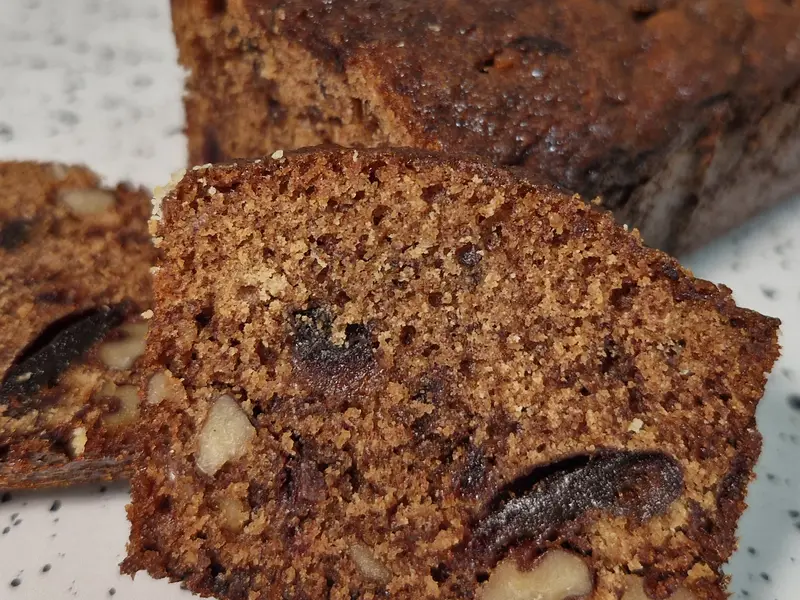
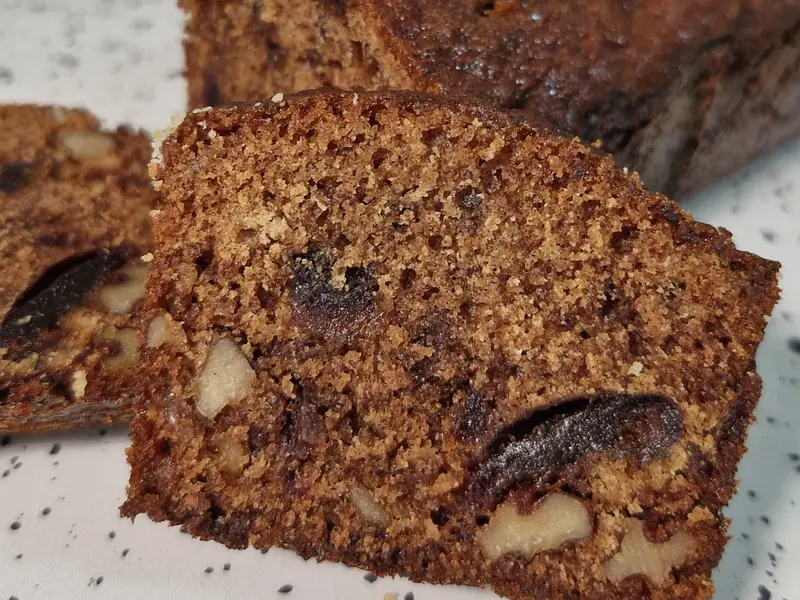
Better cookie crops

diff --git a/index.html b/index.html
@@ -478,7 +478,7 @@ footer small{opacity:.75}
 <script>
 (function(){
 "use strict";
-var IMG = {"bauble": "img/bauble.webp", "choctarts": "img/choctarts.webp", "coconutice": "img/coconutice.webp", "coconuttarts": "img/coconuttarts.webp", "cookies_mix": "img/cookies_mix.webp", "cookies_reindeer": "img/cookies_reindeer.webp", "cookies_tree": "img/cookies_tree.webp", "guava": "img/guava.webp", "kulkuls": "img/kulkuls.webp", "logo_color": "img/logo_color.webp", "logo_color_whitetext": "img/logo_color_whitetext.webp", "marzipan": "img/marzipan.webp", "milkcream": "img/milkcream.webp", "nevries_rose": "img/nevries_rose.webp", "reindeer": "img/reindeer.webp", "rumsquare": "img/rumsquare.webp", "sweets_mix": "img/sweets_mix.webp", "bow": "img/bow.webp", "s_neureos": "img/s_neureos.webp", "s_guava": "img/s_guava.webp", "p_marzipan": "img/p_marzipan.webp", "p_kulkul": "img/p_kulkul.webp", "s_shank": "img/s_shank.webp", "p_cice": "img/p_cice.webp", "p_nankhatai": "img/p_nankhatai.webp", "s_rose": "img/s_rose.webp", "p_milkcream": "img/p_milkcream.webp", "p_guava": "img/p_guava.webp", "p_bombs": "img/p_bombs.webp", "p_neureos": "img/p_neureos.webp", "s_kulkul": "img/s_kulkul.webp", "s_bombs": "img/s_bombs.webp", "s_marzipan": "img/s_marzipan.webp", "p_datewal": "img/p_datewal.webp", "s_datewal": "img/s_datewal.webp", "s_baath": "img/s_baath.webp", "p_baath": "img/p_baath.webp", "p_shank": "img/p_shank.webp", "chef_smile": "img/chef_smile.webp", "s_cice": "img/s_cice.webp", "p_rose": "img/p_rose.webp", "chef_table": "img/chef_table.webp", "chef_face": "img/chef_face.webp", "s_milkcream": "img/s_milkcream.webp", "s_nankhatai": "img/s_nankhatai.webp"};
+var IMG = {"bauble": "img/bauble.webp", "choctarts": "img/choctarts.webp", "coconutice": "img/coconutice.webp", "coconuttarts": "img/coconuttarts.webp", "cookies_mix": "img/cookies_mix.webp", "cookies_reindeer": "img/cookies_reindeer.webp", "cookies_tree": "img/cookies_tree.webp", "guava": "img/guava.webp", "kulkuls": "img/kulkuls.webp", "logo_color": "img/logo_color.webp", "logo_color_whitetext": "img/logo_color_whitetext.webp", "marzipan": "img/marzipan.webp", "milkcream": "img/milkcream.webp", "nevries_rose": "img/nevries_rose.webp", "reindeer": "img/reindeer.webp", "rumsquare": "img/rumsquare.webp", "sweets_mix": "img/sweets_mix.webp", "bow": "img/bow.webp", "s_neureos": "img/s_neureos.webp", "s_guava": "img/s_guava.webp", "p_marzipan": "img/p_marzipan.webp", "p_snowflake": "img/p_snowflake.webp", "p_kulkul": "img/p_kulkul.webp", "s_shank": "img/s_shank.webp", "p_cice": "img/p_cice.webp", "p_nankhatai": "img/p_nankhatai.webp", "s_rose": "img/s_rose.webp", "p_milkcream": "img/p_milkcream.webp", "p_santa": "img/p_santa.webp", "p_guava": "img/p_guava.webp", "p_bombs": "img/p_bombs.webp", "p_neureos": "img/p_neureos.webp", "s_kulkul": "img/s_kulkul.webp", "s_bombs": "img/s_bombs.webp", "s_marzipan": "img/s_marzipan.webp", "p_datewal": "img/p_datewal.webp", "s_datewal": "img/s_datewal.webp", "s_baath": "img/s_baath.webp", "p_baath": "img/p_baath.webp", "p_shank": "img/p_shank.webp", "chef_smile": "img/chef_smile.webp", "p_tree": "img/p_tree.webp", "p_ginger": "img/p_ginger.webp", "s_cice": "img/s_cice.webp", "p_rose": "img/p_rose.webp", "chef_table": "img/chef_table.webp", "chef_face": "img/chef_face.webp", "s_milkcream": "img/s_milkcream.webp", "s_nankhatai": "img/s_nankhatai.webp"};
 var WA = "918087800535";
 var CFG = {closeAt:"2026-12-13T23:59:59+05:30", firstDeliveryDate:"2026-12-20", lastDeliveryDate:"2026-12-24", upiId:"rebeccacorda14-3@okaxis", upiName:"Rebecca Corda", soldOut:[], fullDates:[], pickupInfo:"Pickup address and timings will be shared on WhatsApp."};
 var API = "https://script.google.com/macros/s/AKfycbyPiyZia6992mpGfEQj4Ehb10d-bnhDlb0fQqJqQ_0nignIbXRO0fxc4UVapH_EdLeK/exec";
@@ -498,7 +498,7 @@ var CATS = [
   {id:"hampers", tab:"Hampers", name:"Gift Hampers & Boxes", img:"cookies_reindeer"},
   {id:"sweets", tab:"Sweets", name:"Traditional Christmas Sweets", img:"p_marzipan"},
   {id:"cakes", tab:"Cakes & Desserts", name:"Cakes & Desserts", img:"p_datewal"},
-  {id:"cookies", tab:"Cookies", name:"Christmas Cookies", img:"cookies_tree"},
+  {id:"cookies", tab:"Cookies", name:"Christmas Cookies", img:"cookies_mix"},
   {id:"kits", tab:"Kits & Cocoa", name:"Kits & Cocoa Bombs", img:"p_bombs"}
 ];
 var SLIDES = [["p_guava","Guava Sweet"],["p_marzipan","Marzipan"],["cookies_mix","Christmas Cookies"],["p_milkcream","Milk Cream"],["p_cice","Coconut Ice Balls"],["p_kulkul","Kulkuls"],["p_datewal","Date & Walnut Cake"],["p_bombs","Cocoa Bombs"],["p_neureos","Neureos / Karanji"],["p_rose","Rose Cookies"]];
@@ -526,11 +526,11 @@ var ITEMS = [
   {id:"choctart", cat:"cakes", sub:"Tarts & bites", name:"Dark Chocolate & Salted Caramel Tarts", price:135, label:"₹135", img:"choctarts"},
   {id:"cotart", cat:"cakes", sub:"Tarts & bites", name:"Coconut Tarts", price:80, label:"₹80", img:"coconuttarts", tags:["u100"]},
   {id:"bauble", cat:"cookies", name:"Bauble Name Cookies", price:150, label:"₹150", img:"bauble", tags:["gift","kids"], personal:true},
-  {id:"santa", cat:"cookies", name:"Santa Face Cookie", price:100, label:"₹100", img:"cookies_mix", tags:["kids","u100"]},
+  {id:"santa", cat:"cookies", name:"Santa Face Cookie", price:100, label:"₹100", img:"p_santa", tags:["kids","u100"]},
   {id:"reindeer", cat:"cookies", name:"Reindeer Cookie", price:120, label:"₹120", img:"reindeer", tags:["kids"]},
-  {id:"tree", cat:"cookies", name:"Christmas Tree Cookie", price:90, label:"₹90", img:"cookies_tree", tags:["kids","u100"]},
-  {id:"snowflake", cat:"cookies", name:"Snowflake Cookie", price:90, label:"₹90", tags:["kids","u100"]},
-  {id:"ginger", cat:"cookies", name:"Gingerbread Men Cookie", price:90, label:"₹90", tags:["kids","u100"]},
+  {id:"tree", cat:"cookies", name:"Christmas Tree Cookie", price:90, label:"₹90", img:"p_tree", tags:["kids","u100"]},
+  {id:"snowflake", cat:"cookies", name:"Snowflake Cookie", price:90, img:"p_snowflake", label:"₹90", tags:["kids","u100"]},
+  {id:"ginger", cat:"cookies", name:"Gingerbread Men Cookie", price:90, img:"p_ginger", label:"₹90", tags:["kids","u100"]},
   {id:"kit", cat:"kits", name:"Royal Icing Cookie Kit", price:499, label:"₹499", tags:["kids"]},
   {id:"bombs", cat:"kits", name:"Cocoa Bombs", unit:"Set of 2", price:250, img:"p_bombs", label:"₹250", tags:["kids"]}
 ];
